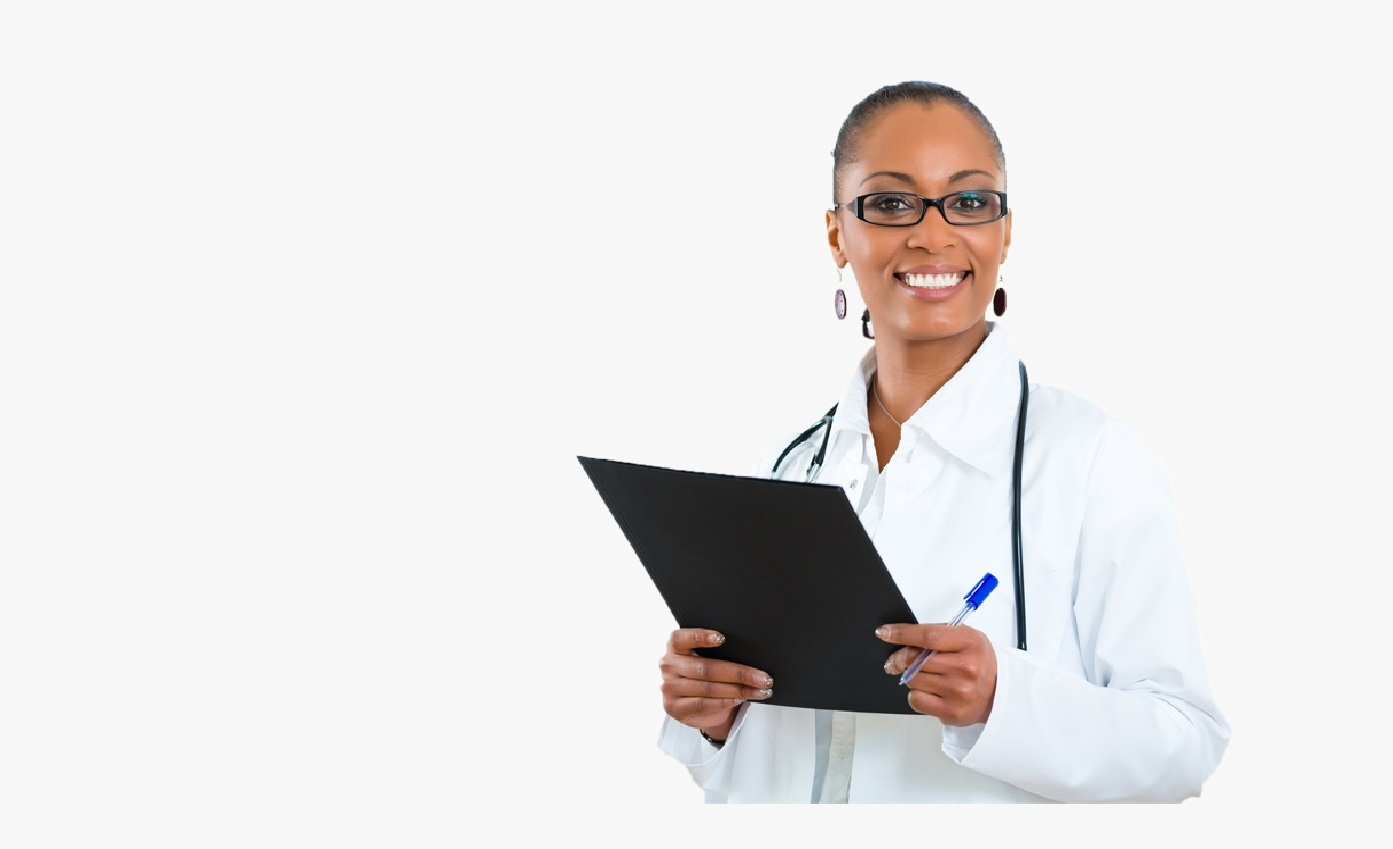
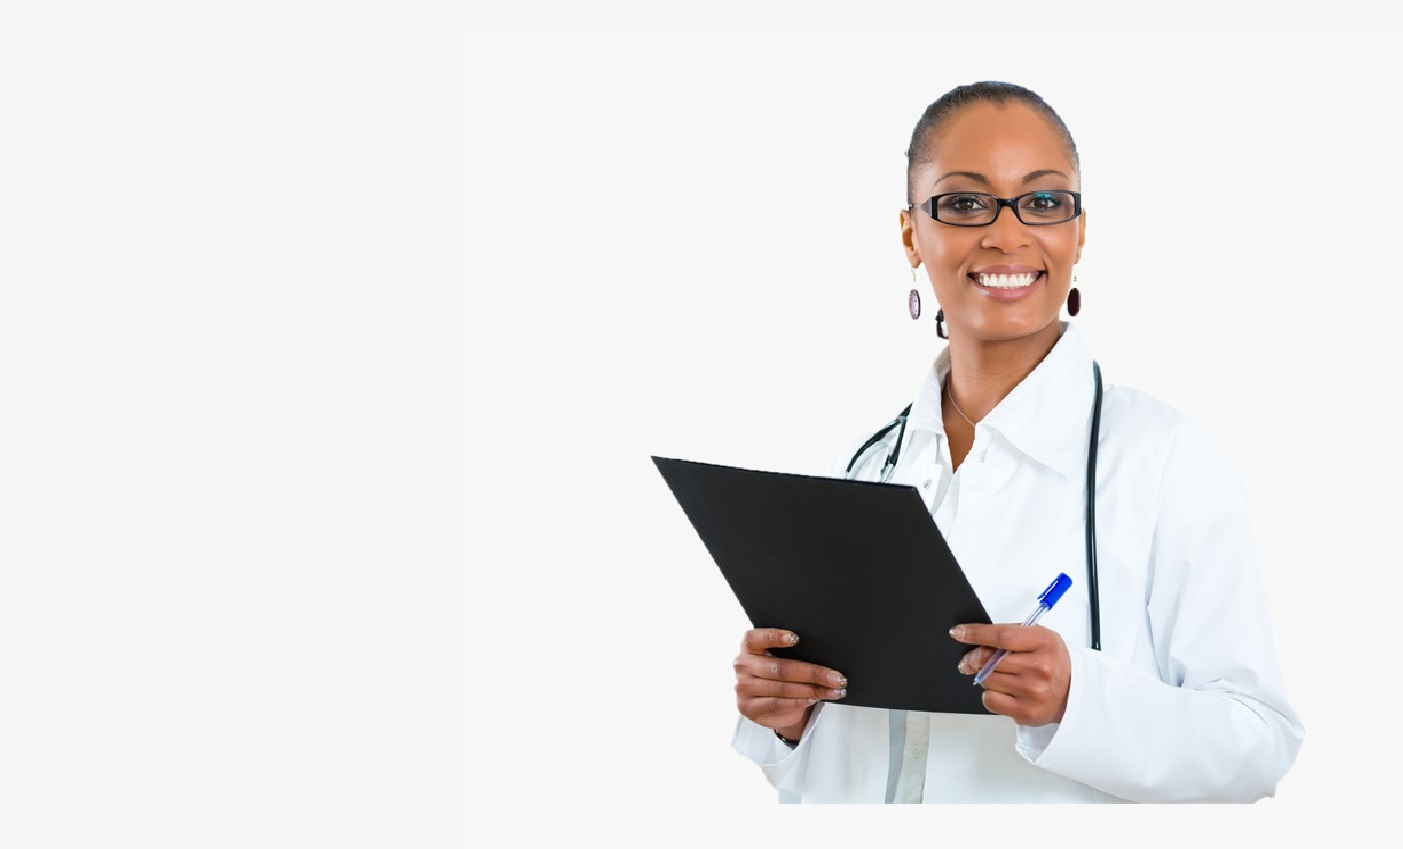
Updates

Changed region(s): [[0.4013, 0.0919, 0.9261, 0.9494], [0.8335, 0.7044, 0.8643, 0.735]]

diff --git a/about.html b/about.html
@@ -114,6 +114,7 @@ http://www.tooplate.com/view/2098-health
     <section id="about">
       <div class="container">
         <div class="row">
+          <div class="col-md-1 col-sm-1"></div>
           <div class="col-md-6 col-sm-6">
             <div class="about-info">
               <h2 class="wow fadeInUp" data-wow-delay="0.6s">

diff --git a/css/tooplate-style.css b/css/tooplate-style.css
@@ -520,7 +520,7 @@ header span i {
   background-size: cover;
   padding-top: 120px;
   padding-bottom: 100px;
-  padding-left: 5em;
+  /* padding-left: 5em; */
 }
 #advisory {
   background: url("../images/advisory.jpg") no-repeat top center;
